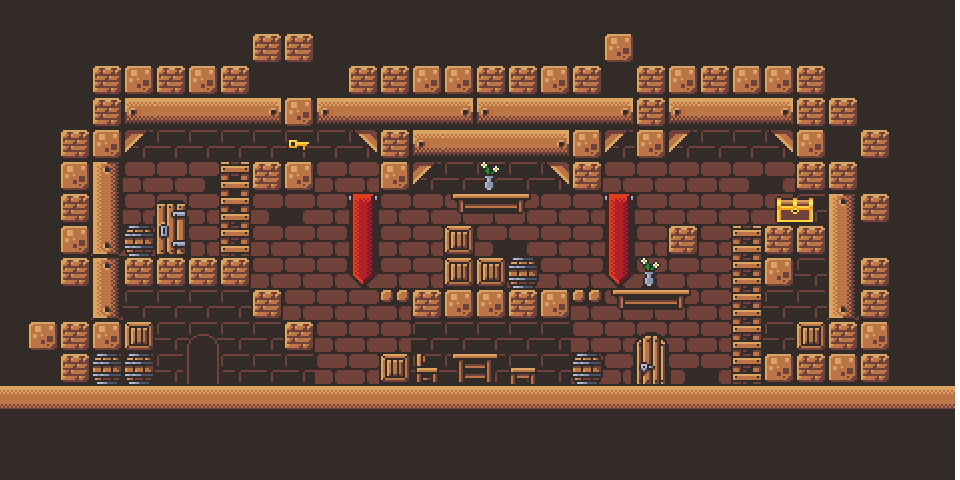
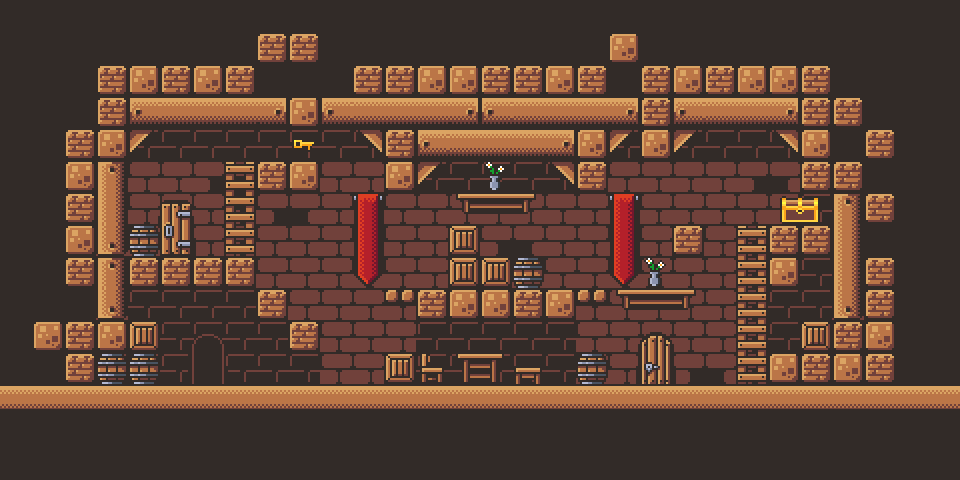
First level OK

Changed region(s): [[0.0, 0.0, 1.0, 1.0]]

diff --git a/src/sample/Main.java b/src/sample/Main.java
@@ -1,6 +1,6 @@
 package sample;
 
-import java.io.File;
+import java.io.*;
 import java.util.Timer;
 import java.util.TimerTask;
 
@@ -12,20 +12,25 @@ import javafx.scene.image.ImageView;
 import javafx.scene.input.KeyCode;
 import javafx.scene.input.KeyEvent;
 import javafx.scene.input.MouseEvent;
+import javafx.scene.layout.Background;
+import javafx.scene.layout.BackgroundFill;
 import javafx.scene.layout.Pane;
+import javafx.scene.paint.Color;
 import javafx.stage.Stage;
 
 public class Main extends Application{
+    final int SCREEN_RATIO = 3;
+    int x = 0;
+    int y = 0;
 
     public static void main (String args []) {
         Application.launch(args);
     }
 
     public void start(Stage stage) throws Exception {
-        //Load files
-        File level1 = new File("./resources/level1");
-
         Pane pane = new Pane();
+        loadLevel("level1", pane);
+
         Scene scene = new Scene(pane);
 
 //        keyboard(pane, doodle, scene);
@@ -44,7 +49,6 @@ public class Main extends Application{
             public void run() {
                 Platform.runLater(new Runnable() {
                     public void run() {
-                        System.out.println("Running");
 //                        play(platformFile, pane, doodle);
                     }
                 });
@@ -52,6 +56,40 @@ public class Main extends Application{
         };
         fall.schedule(task, 0, 4);
 
+    }
+
+    private void loadLevel(String name, Pane pane) throws Exception {
+        pane.setBackground(new Background(new BackgroundFill(Color.web("322B28"), null, null)));
+
+        File level1 = new File("./resources/"+name);
+        BufferedReader br = new BufferedReader( new FileReader(level1));
+        String line;
+        while ((line = br.readLine()) != null){
+            String [] textures = line.split(";");
+            for(String texture : textures){
+                int id = Integer.parseInt(texture.split("x")[0]);
+                int nbr = Integer.parseInt(texture.split("x")[1]);
+                for(int i=0; i<nbr; i++){
+                    if(id!=-1) {
+                        Texture t = Texture.values()[id];
+                        pane.getChildren().add(loadImage(t));
+                        x += t.getX() * SCREEN_RATIO;
+                    }else{
+                        x += 8 * SCREEN_RATIO;
+                    }
+                }
+            }
+            x=0;
+            y+=8*SCREEN_RATIO;
+        }
+    }
+
+    private ImageView loadImage(Texture texture) throws Exception{
+        Image image = new Image( new FileInputStream("./resources/assets/"+texture.getImage()), texture.getX()*SCREEN_RATIO, texture.getY()*SCREEN_RATIO,false,false);
+        ImageView im = new ImageView(image);
+        im.setX(x);
+        im.setY(y);
+        return im;
     }
 
 //    private void keyboard(Pane pane, Object doodle, Scene scene) {

diff --git a/src/sample/Texture.java b/src/sample/Texture.java
@@ -1,0 +1,33 @@
+package sample;
+
+public enum Texture {
+  backWallBlackHalf ("backWallBlackHalf.png", 16, 8), box ("box.png", 16, 16), coin ("coin.png",16,16), doorOpen ("doorOpen.png",32,32),
+  horiozontalBeam ("horiozontalBeam.png", 48, 16), rope ("rope.png",16,48), wall ("wall.png",16,16), backWallBlack ("backWallBlack.png",16,8),
+  cabinet ("cabinet.png",16,32), dawer ("dawer.png", 16,16), door ("door.png",16,24), key ("key.png", 16, 16), shelf ("shelf.png", 46, 16),
+  backWallHalf ("backWallHalf.png", 16, 8), chair1 ("chair1.png", 16,16), dirt ("dirt.png", 16,16), flag ("flag.png", 16, 48), ladderBot ("ladderBot.png", 16, 16),
+  stool ("stool.png", 16,16), backWall ("backWall.png",16,8), chair2 ("chair2.png", 16,16), door2Open ("door2Open.png", 32, 32), floor ("floor.png", 16, 16),
+  ladderTop ("ladderTop.png", 16,16), table ("table.png",32, 16), barrel ("barrel.png",16,16), chest ("chest.png", 32, 16), door2 ("door2.png",32,32),
+  flowers ("flowers.png", 16, 16), platform ("platform.png",16,8), verticalBeam ("verticalBeam.png", 16, 48), rightCorner("rightCorner.png", 16,16), leftCorner("leftCorner.png", 16,16);
+
+  private String image;
+  private int x;
+  private int y;
+
+  Texture (String image, int x, int y){
+      this.image = image;
+      this.x = x;
+      this.y = y;
+  }
+
+  public String getImage() {
+    return image;
+  }
+
+  public int getX() {
+    return x;
+  }
+
+  public int getY() {
+    return y;
+  }
+}
